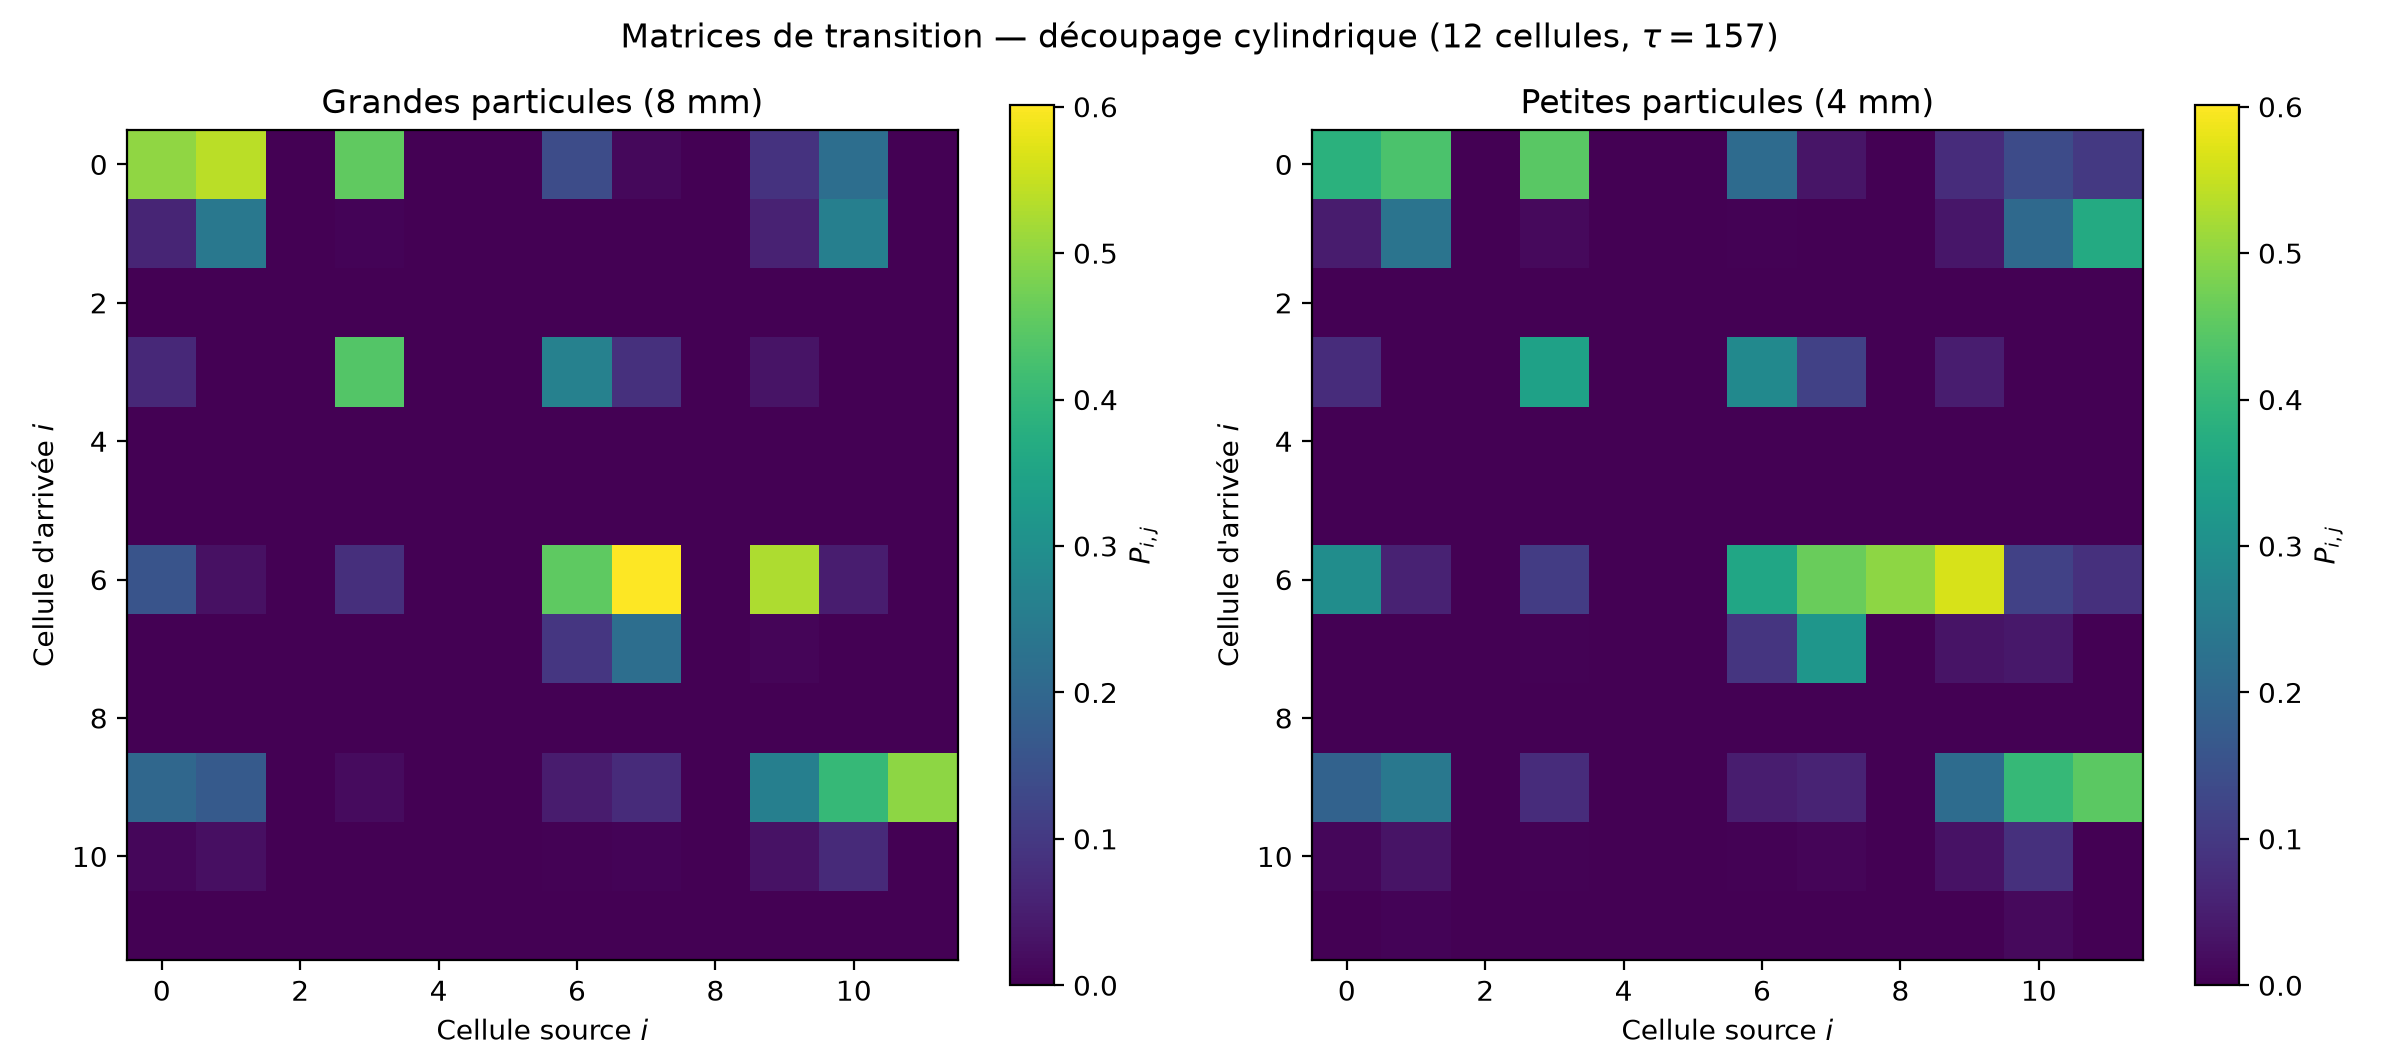
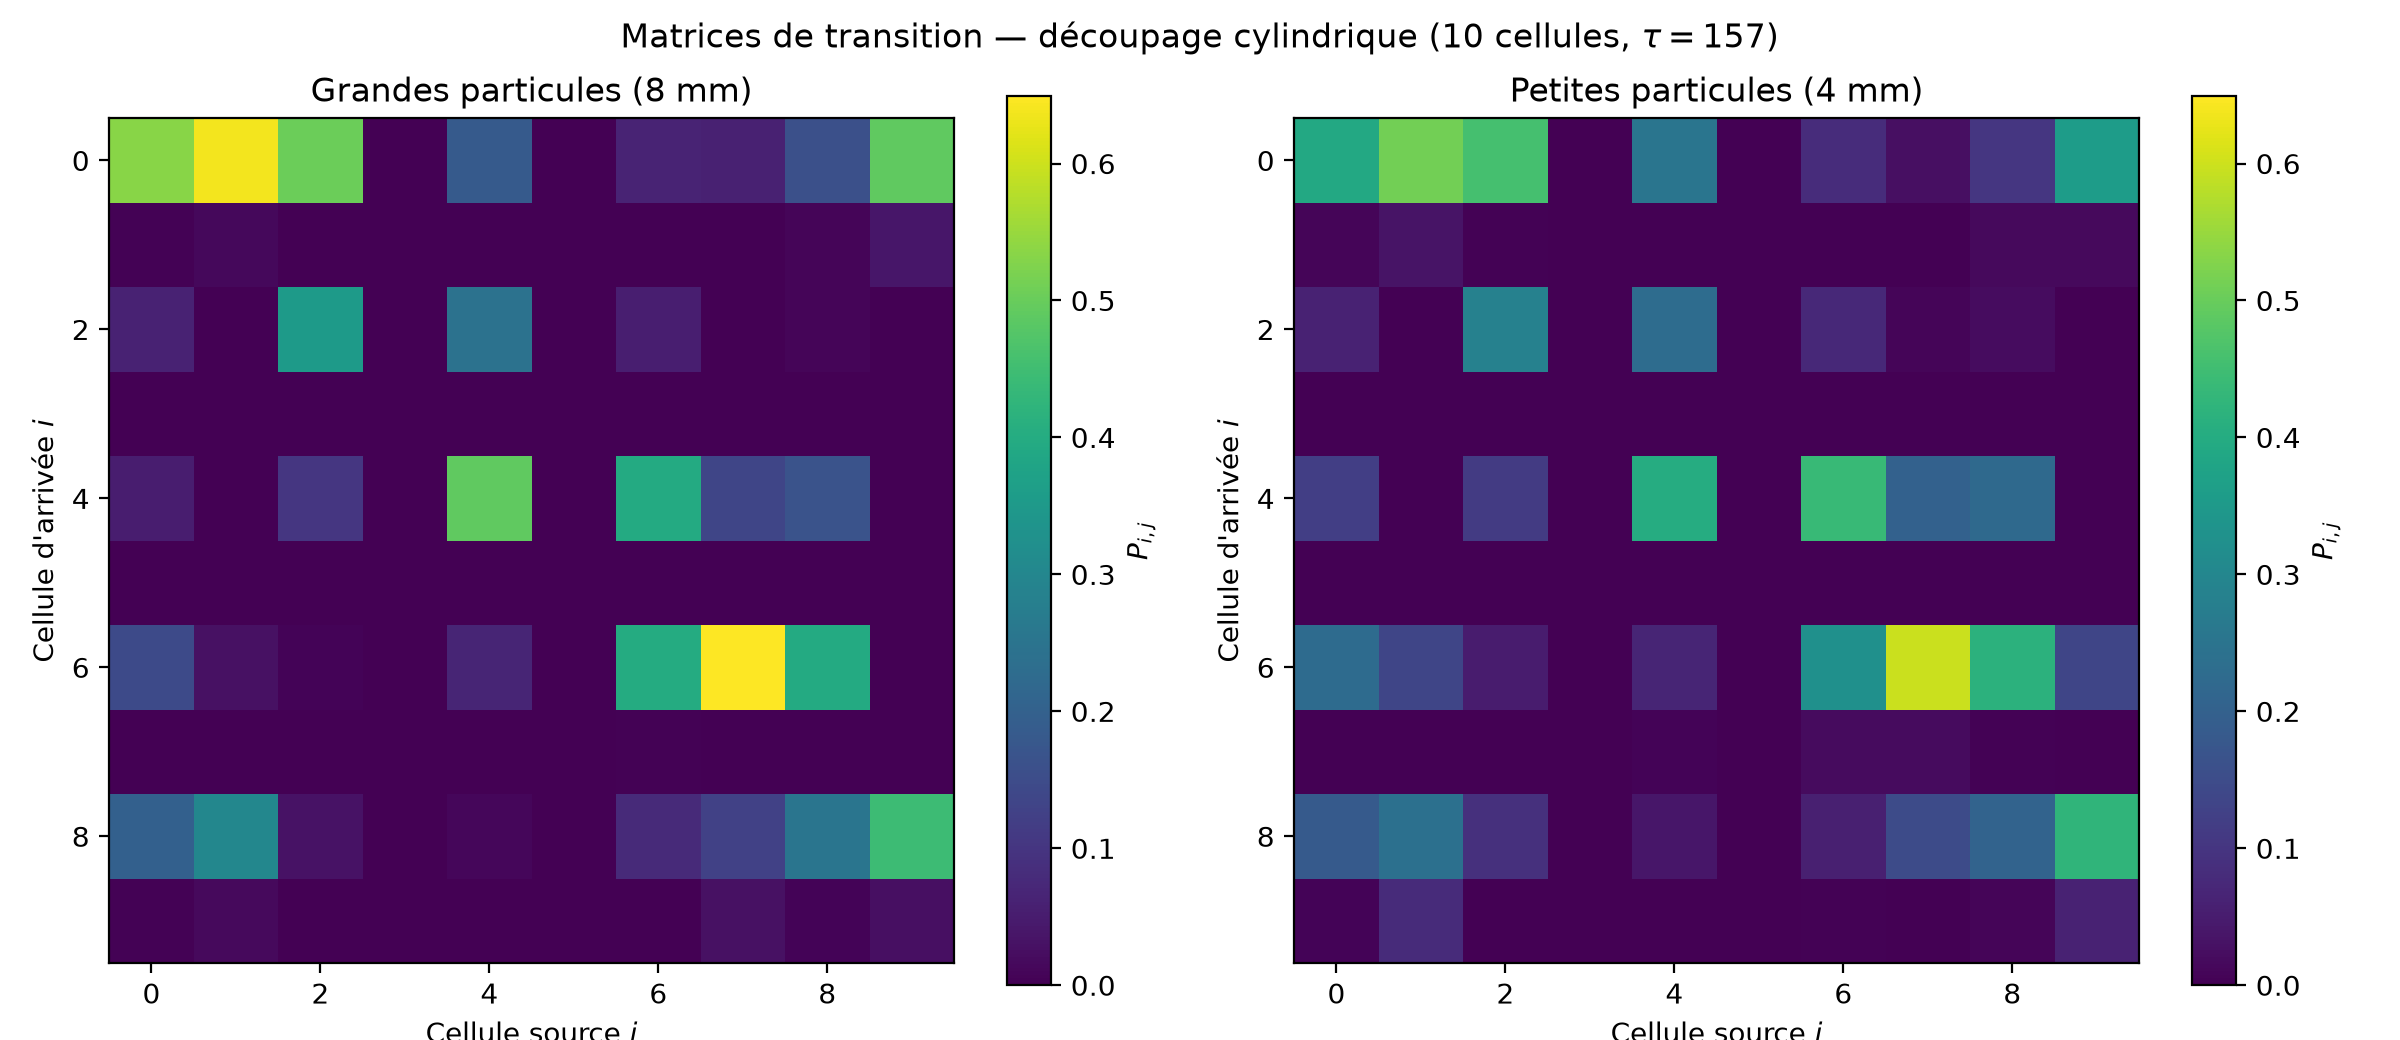
Comparaison des découpages à nombre de cellules identique (10 cellules) : cartésien 5x2x1, cylindrique nr=2 ntheta=5 ; figures et chiffres du rapport mis à jour

diff --git a/template-rapport-stage/main.tex b/template-rapport-stage/main.tex
@@ -746,16 +746,16 @@ Le découpage cylindrique remédie à ce défaut en épousant la géométrie du 
   \label{fig:cylindrique_resolutions}
 \end{figure}
 
-Les matrices de transition construites par espèce pour un découpage cylindrique à 12 cellules ($n_r = 3$, $n_\theta = 4$, mode à aire constante, $\tau = 157$) sont données à la figure~\ref{fig:matrice_cylindrique}. La structure en blocs, alignée sur la numérotation radiale $\to$ angulaire, traduit la physique de l'écoulement : les transitions dominantes relient des cellules angulairement voisines --- signature de l'entraînement en rotation solide dans la zone passive ---, tandis que les cellules radialement internes échangent avec les cellules externes via l'écoulement de surface. Certaines colonnes concentrent une forte probabilité sur une seule cellule d'arrivée (jusqu'à $\approx 0{,}6$) : elles correspondent aux cellules du cœur du lit, dont les particules sont transportées en bloc vers une destination quasi déterministe en un tour de tambour. La comparaison des deux espèces retrouve l'asymétrie déjà observée : les petites particules répartissent leurs probabilités sur davantage de cellules d'arrivée que les grandes. À l'inverse du découpage cartésien, aucune colonne vide n'apparaît : chaque cellule est visitée durant l'apprentissage, et la condition de stochasticité en colonne~\eqref{eq:stochastique} est vérifiée sur l'ensemble de la matrice.
+Les matrices de transition construites par espèce pour un découpage cylindrique à 10 cellules ($n_r = 2$, $n_\theta = 5$, mode à aire constante, $\tau = 157$) --- même nombre de cellules que les autres méthodes afin de permettre une comparaison à résolution égale --- sont données à la figure~\ref{fig:matrice_cylindrique}. La structure en blocs, alignée sur la numérotation radiale $\to$ angulaire, traduit la physique de l'écoulement : les transitions dominantes relient des cellules angulairement voisines --- signature de l'entraînement en rotation solide dans la zone passive ---, tandis que les cellules radialement internes échangent avec les cellules externes via l'écoulement de surface. Certaines colonnes concentrent une forte probabilité sur une seule cellule d'arrivée (jusqu'à $\approx 0{,}6$) : elles correspondent aux cellules du cœur du lit, dont les particules sont transportées en bloc vers une destination quasi déterministe en un tour de tambour. La comparaison des deux espèces retrouve l'asymétrie déjà observée : les petites particules répartissent leurs probabilités sur davantage de cellules d'arrivée que les grandes. À l'inverse du découpage cartésien, aucune colonne vide n'apparaît : chaque cellule est visitée durant l'apprentissage, et la condition de stochasticité en colonne~\eqref{eq:stochastique} est vérifiée sur l'ensemble de la matrice.
 
 \begin{figure}[H]
   \centering
   \includegraphics[width=\linewidth]{figures/matrice_cylindrique_especes.png}
-  \caption{Matrices de transition construites à partir des données DEM pour le découpage cylindrique (12 cellules, $n_r = 3$, $n_\theta = 4$, mode à aire constante, $\tau = 157$), séparément pour chaque espèce. La structure en blocs suit la numérotation radiale $\to$ angulaire ; la condition de stochasticité en colonne est vérifiée sur toutes les colonnes.}
+  \caption{Matrices de transition construites à partir des données DEM pour le découpage cylindrique (10 cellules, $n_r = 2$, $n_\theta = 5$, mode à aire constante, $\tau = 157$), séparément pour chaque espèce. La structure en blocs suit la numérotation radiale $\to$ angulaire ; la condition de stochasticité en colonne est vérifiée sur toutes les colonnes.}
   \label{fig:matrice_cylindrique}
 \end{figure}
 
-La confrontation de la prédiction markovienne à la référence DEM (figure~\ref{fig:rsd_cylindrique}) révèle toutefois la limite de ce maillage pour l'étude de la ségrégation : le RSD de la teneur en petites particules prédit par la chaîne homogène se fige rapidement autour de sa valeur de point fixe, sans suivre les fluctuations de la DEM, et la chaîne inhomogène, si elle réintroduit de la variabilité, reste au-dessus de la trajectoire de référence. La raison est géométrique : les cellules cylindriques, solidaires de la symétrie de révolution, tournent « avec » l'écoulement moyen et ne séparent ni la zone active de la zone passive, ni les zones enrichies des zones appauvries en petites particules --- l'information de ségrégation est moyennée à l'intérieur de chaque cellule. Ce constat, quantifié à la section~\ref{subsec:comparaison_methodes}, illustre que le respect de la géométrie de l'enceinte ne suffit pas : c'est l'adéquation du maillage à la structure de l'écoulement qui gouverne la qualité du modèle.
+La confrontation de la prédiction markovienne à la référence DEM (figure~\ref{fig:rsd_cylindrique}) révèle toutefois la limite de ce maillage pour l'étude de la ségrégation : le RSD de la teneur en petites particules prédit par la chaîne homogène se fige dès les premiers pas autour de sa valeur de point fixe ($\approx 49\,\%$), et la chaîne inhomogène, si elle réintroduit une légère variabilité en début de prédiction, converge elle aussi vers un palier ($\approx 53\,\%$) : aucune des deux ne restitue le niveau moyen élevé ni les larges fluctuations du RSD DEM (60 à 100\,\%). La raison est géométrique : les cellules cylindriques, solidaires de la symétrie de révolution, tournent « avec » l'écoulement moyen et ne séparent ni la zone active de la zone passive, ni les zones enrichies des zones appauvries en petites particules --- l'information de ségrégation est moyennée à l'intérieur de chaque cellule, et la projection markovienne lisse d'autant plus vite les contrastes résiduels. Ce constat, quantifié à la section~\ref{subsec:comparaison_methodes}, illustre que le respect de la géométrie de l'enceinte ne suffit pas : c'est l'adéquation du maillage à la structure de l'écoulement qui gouverne la qualité du modèle.
 
 \begin{figure}[H]
   \centering
@@ -845,24 +845,24 @@ En intégrant la norme de la vitesse dans le critère de partitionnement, les ce
 \subsubsection{Comparaison des méthodes}
 \label{subsec:comparaison_methodes}
 
-La figure~\ref{fig:comparaison_methodes_rsd} confronte, pour les quatre méthodes de découpage et à paramètres identiques ($\tau = 157$, deux blocs d'apprentissage), le RSD de la teneur en petites particules prédit par la chaîne homogène à la référence DEM ; l'écart moyen $|\mathrm{RSD}_{\text{Markov}} - \mathrm{RSD}_{\text{DEM}}|$ sur toute la fenêtre de prédiction est reporté dans chaque cadran et synthétisé au tableau~\ref{tab:ecart_rsd_methodes}. La hiérarchie est nette : le découpage physique (6,4 points d'écart) et le découpage de Voronoï (10,2 points) suivent correctement le niveau d'homogénéisation atteint par la DEM, tandis que les maillages géométriques --- cartésien (20,7 points) et cylindrique (27,7 points) --- s'en écartent durablement, leurs cellules moyennant des zones de dynamiques hétérogènes.
+La figure~\ref{fig:comparaison_methodes_rsd} confronte, pour les quatre méthodes de découpage à \textbf{nombre de cellules identique} (10 cellules chacune : cartésien $5 \times 2 \times 1$, cylindrique $n_r = 2$, $n_\theta = 5$, Voronoï et physique $K = 10$) et à paramètres d'apprentissage identiques ($\tau = 157$, deux blocs), le RSD de la teneur en petites particules prédit par la chaîne homogène à la référence DEM. Cette égalité de résolution garantit que les écarts observés proviennent bien de la \textit{forme} des cellules --- c'est-à-dire de la méthode de découpage --- et non d'une différence de finesse de maillage, chaque cellule contenant en moyenne une centaine de particules dans les quatre cas. L'écart moyen $|\mathrm{RSD}_{\text{Markov}} - \mathrm{RSD}_{\text{DEM}}|$ sur toute la fenêtre de prédiction est reporté dans chaque cadran et synthétisé au tableau~\ref{tab:ecart_rsd_methodes}. La hiérarchie est nette : le découpage physique (6,4 points d'écart) et le découpage de Voronoï (10,2 points) suivent correctement le niveau d'homogénéisation atteint par la DEM, tandis que les maillages géométriques --- cartésien (21,4 points) et cylindrique (26,7 points) --- s'en écartent durablement, leurs cellules moyennant des zones de dynamiques hétérogènes.
 
 \begin{figure}[H]
   \centering
   \includegraphics[width=\linewidth]{figures/comparaison_methodes_rsd.png}
-  \caption{Influence de la méthode de découpage sur la prédiction (données DEM réelles) : RSD DEM vs prédiction markovienne homogène pour les quatre méthodes, à paramètres identiques ($\tau = 157$, deux blocs d'apprentissage). L'écart moyen est indiqué dans le titre de chaque cadran.}
+  \caption{Influence de la méthode de découpage sur la prédiction (données DEM réelles) : RSD DEM vs prédiction markovienne homogène pour les quatre méthodes, à nombre de cellules identique (10 cellules) et à paramètres identiques ($\tau = 157$, deux blocs d'apprentissage). L'écart moyen est indiqué dans le titre de chaque cadran.}
   \label{fig:comparaison_methodes_rsd}
 \end{figure}
 
 \begin{table}[H]
   \centering
-  \caption{Écart moyen $|\mathrm{RSD}_{\text{Markov}} - \mathrm{RSD}_{\text{DEM}}|$ (en points de \%) sur la fenêtre de prédiction, par méthode de découpage (chaîne homogène, $\tau = 157$).}
+  \caption{Écart moyen $|\mathrm{RSD}_{\text{Markov}} - \mathrm{RSD}_{\text{DEM}}|$ (en points de \%) sur la fenêtre de prédiction, par méthode de découpage à nombre de cellules identique (10 cellules, chaîne homogène, $\tau = 157$).}
   \label{tab:ecart_rsd_methodes}
   \begin{tabular}{lcccc}
     \toprule
     & Cartésien & Cylindrique & Voronoï & Physique\\
     \midrule
-    Écart moyen (pts) & 20{,}7 & 27{,}7 & 10{,}2 & \textbf{6{,}4}\\
+    Écart moyen (pts) & 21{,}4 & 26{,}7 & 10{,}2 & \textbf{6{,}4}\\
     \bottomrule
   \end{tabular}
 \end{table}
@@ -952,7 +952,7 @@ Ce mémoire a proposé et évalué une modélisation stochastique par chaînes d
 
 \begin{itemize}
   \item La construction de matrices de transition distinctes par espèce met en évidence des dynamiques contrastées entre petites et grandes particules.
-  \item Le choix de la discrétisation spatiale conditionne fortement la fidélité du modèle : les maillages statistiques (Voronoï, physique) surpassent nettement les maillages géométriques en termes d'erreur de prédiction (6,4 et 10,2 points d'écart de RSD contre 20,7 pour le cartésien et 27,7 pour le cylindrique) ; le cas cylindrique montre que le respect de la géométrie de l'enceinte ne garantit pas la pertinence du maillage vis-à-vis de la ségrégation.
+  \item Le choix de la discrétisation spatiale conditionne fortement la fidélité du modèle : à nombre de cellules identique, les maillages statistiques (Voronoï, physique) surpassent nettement les maillages géométriques en termes d'erreur de prédiction (6,4 et 10,2 points d'écart de RSD contre 21,4 pour le cartésien et 26,7 pour le cylindrique) ; le cas cylindrique montre que le respect de la géométrie de l'enceinte ne garantit pas la pertinence du maillage vis-à-vis de la ségrégation.
   \item Un vecteur d'état fondé sur la teneur locale en petites particules discrimine la ségrégation bien mieux qu'un simple comptage.
   \item Les chaînes inhomogènes, en actualisant les probabilités à chaque pas, suivent plus fidèlement l'évolution DEM que les chaînes homogènes, en particulier durant les régimes transitoires.
 \end{itemize}
@@ -1109,8 +1109,8 @@ Le paramètre $start$ fixe le premier instant DEM utilisé pour la phase d'appre
     \toprule
     $t$ (cs) & 0 & 50 & 100 & \textbf{157} & 300 & 600 & 1000\\
     \midrule
-    Cartésien   & 91{,}1 & 92{,}4 & 104{,}3 & \textbf{76{,}7} & 34{,}1 & 38{,}4 & 75{,}5\\
-    Cylindrique & 97{,}6 & 95{,}1 & 95{,}6  & \textbf{62{,}8} & 85{,}2 & 23{,}5 & 40{,}0\\
+    Cartésien   & 87{,}2 & 101{,}0 & 87{,}7 & \textbf{65{,}7} & 110{,}8 & 36{,}0 & 20{,}8\\
+    Cylindrique & 107{,}3 & 96{,}3 & 119{,}8 & \textbf{66{,}0} & 65{,}7 & 88{,}9 & 76{,}2\\
     Voronoï     & 62{,}1 & 89{,}5 & 29{,}7  & \textbf{61{,}7} & 23{,}9 &  9{,}1 & 19{,}6\\
     Physique    & 107{,}1 & 90{,}4 & 88{,}6 & \textbf{68{,}3} & 31{,}6 & 15{,}1 & 12{,}3\\
     \bottomrule

diff --git a/postprocessing/etudes_rapport.py b/postprocessing/etudes_rapport.py
@@ -295,23 +295,28 @@ def markov_rsd_series_inh(Ps_small, Ps_all, S0_small, S0_all, n_steps):
 
 
 def compute_all_states(X, V, small_p):
-    """Ajuste les 4 partitionneurs sur le régime permanent, labellise tout."""
+    """Ajuste les 4 partitionneurs sur le régime permanent, labellise tout.
+
+    Le nombre de cellules est identique pour les quatre méthodes (10 cellules,
+    soit ~100 particules par cellule) afin que la comparaison ne soit pas
+    biaisée par la résolution du maillage.
+    """
     fit_ts = np.arange(START, START + 5 * TAU, 10)  # régime permanent
     fit_pts = X[fit_ts].reshape(-1, 3)
     fit_vn = V[fit_ts].reshape(-1)
 
     parts = {}
 
-    cart = Cartesian(3, 3, 1).fit(fit_pts)
+    cart = Cartesian(5, 2, 1).fit(fit_pts)  # 10 cellules
     parts["Cartésien"] = (cart, None)
 
-    cyl = Cylindrical(3, 4, 1).fit(fit_pts)
+    cyl = Cylindrical(2, 5, 1).fit(fit_pts)  # 10 cellules
     parts["Cylindrique"] = (cyl, None)
 
-    vor = Voronoi(10).fit(fit_pts)
+    vor = Voronoi(10).fit(fit_pts)  # 10 cellules
     parts["Voronoï"] = (vor, None)
 
-    phy = Physics(10, vw=0.5)
+    phy = Physics(10, vw=0.5)  # 10 cellules
     phy.fit(fit_pts, fit_vn)
     parts["Physique"] = (phy, "vel")
 
@@ -495,7 +500,7 @@ def resultats_cylindrique(states, small_p):
         ax.set_ylabel("Cellule d'arrivée $i$")
         ax.set_title(ttl)
         fig.colorbar(im, ax=ax, label="$P_{i,j}$")
-    fig.suptitle("Matrices de transition — découpage cylindrique (12 cellules, $\\tau=157$)")
+    fig.suptitle("Matrices de transition — découpage cylindrique (10 cellules, $\\tau=157$)")
     fig.tight_layout()
     fig.savefig(FIGDIR / "matrice_cylindrique_especes.png", dpi=200)
     plt.close(fig)
